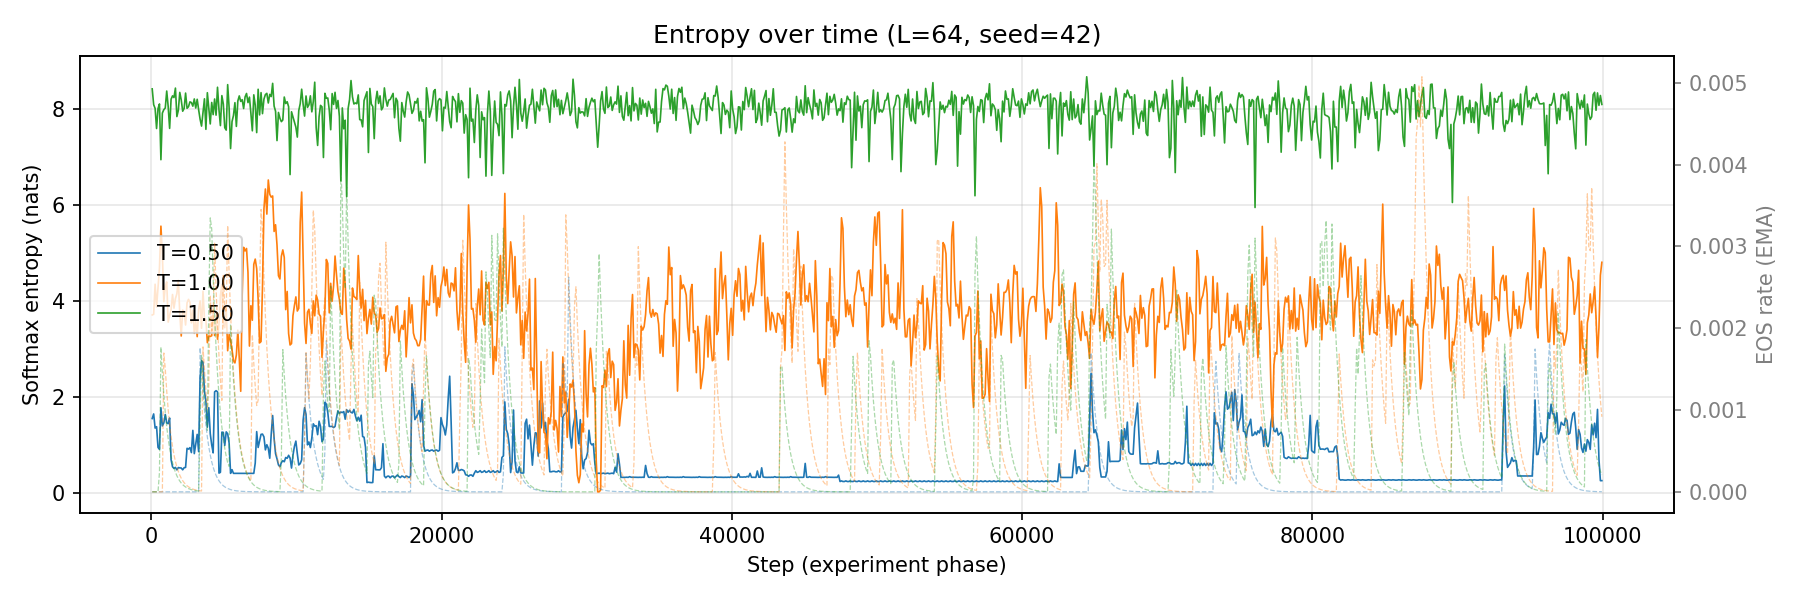
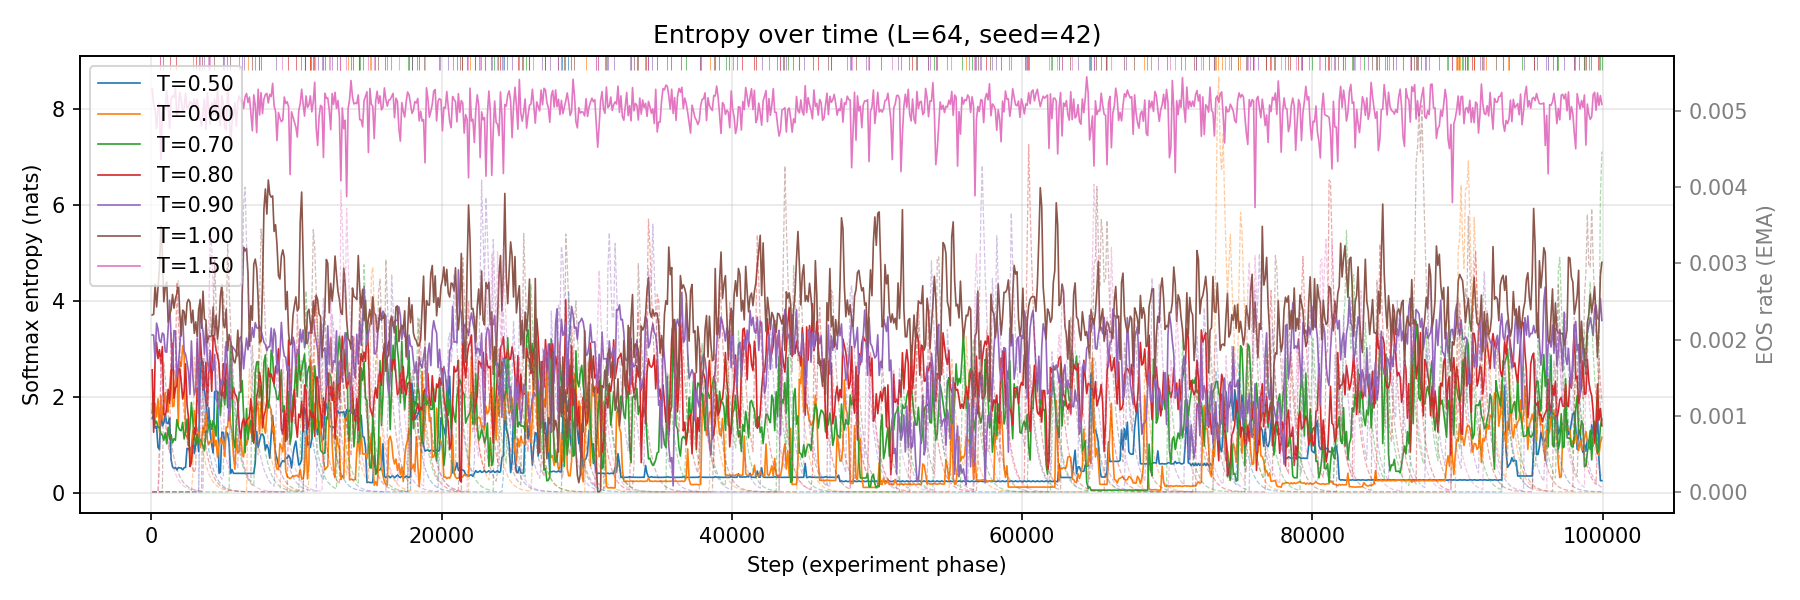
Update current model summary, run-index, and entropy figures
- Add crossover slope-flip and gzip measurement floor to current model
- Update run-index: seed sweep in progress with priority order, add
  analyze.py refactor to Phase 1, add seed/analysis commands
- Regenerate all entropy figures with EOS tick marks

diff --git a/run-index.md b/run-index.md
@@ -21,9 +21,9 @@ Total: 24 runs complete.
 
 Cells show seed numbers for completed runs. Empty = not yet run.
 
-### Planned: Seed Replication
+### In Progress: Seed Replication
 
-Seeds 123 and 7 across the full grid. Priority order TBD — may target specific (L, T) conditions where seed-dependent behavior is most informative (e.g. T=0.50 collapse boundary, T=0.7–0.9 crossover).
+Seeds 123 and 7 via `seed_sweep.py` (48 runs). Priority order: T=0.50 all L first (L=192 anomaly verification), then crossover T=0.60–0.90, then T=1.00/1.50.
 
 ### Planned: L=256 Crossover Fill
 
@@ -44,9 +44,10 @@ L=256 × T={0.60, 0.70, 0.80, 0.90} — completes the rectangular grid. Lower pr
 
 ### Phase 1 — Fixed-Temperature Characterization
 - Transfer functions: T→C and T→H curves at each L (now possible with dense T spacing)
-- Multi-scale compression: W=2L, W=4L analysis on existing data
+- Multi-scale compression analysis at standard W grid (already computed for existing data)
 - Identify the decoupling zone and its T/L boundaries
 - Complete the fixed-temperature phase map
+- Refactor analyze.py: modular metric computation, better integration with explorer
 
 ### Phase 2 — Temperature Ramps
 - Controlled ramps through crossover region
@@ -69,4 +70,9 @@ python generate.py --context-length {L} --temperature {T} --seed {seed} \
 # Sweep scripts
 python pilot_sweep.py          # Phase 0 pilot grid
 python crossover_sweep.py      # Crossover T-densification
+python seed_sweep.py           # Seed replication (123, 7)
+
+# Multi-window analysis
+python analyze_windows.py      # Standard W grid [16,32,64,128,256]
+python plot_window_scaling.py  # Scaling plots
 ```

diff --git a/observations.md b/observations.md
@@ -22,6 +22,10 @@ Append-only record of findings. Each entry includes reproduction commands.
 
 **EOS is regime-dependent.** At T=1.00: interior signal — fires from the dense center of phase space (richest dynamics). At T=0.50: transition signal — fires during escape attempts from attractors. EOS rate peaks at T=1.00, suppressed by L in collapse regime (13→3→1 across L=64/128/256 at T=0.50).
 
+**Crossover slope-flip at fixed W=64:** Compressibility *decreases* with L at T≤0.60 (deeper collapse = less local structure) but *increases* with L at T=1.00 (longer context = more structure). The sign flip occurs around T=0.70–0.80. This is the phase boundary in the L dimension.
+
+**Gzip measurement floor:** W=16 produces compressibility > 1.0 (gzip header overhead exceeds data). W≥32 is the useful measurement range.
+
 **Three-sensor framework:** entropy (model uncertainty), compressibility (observer-assessed structure), EOS rate (model-assessed coherence). Each probes a different aspect. All three needed for regime identification.
 
 ---
